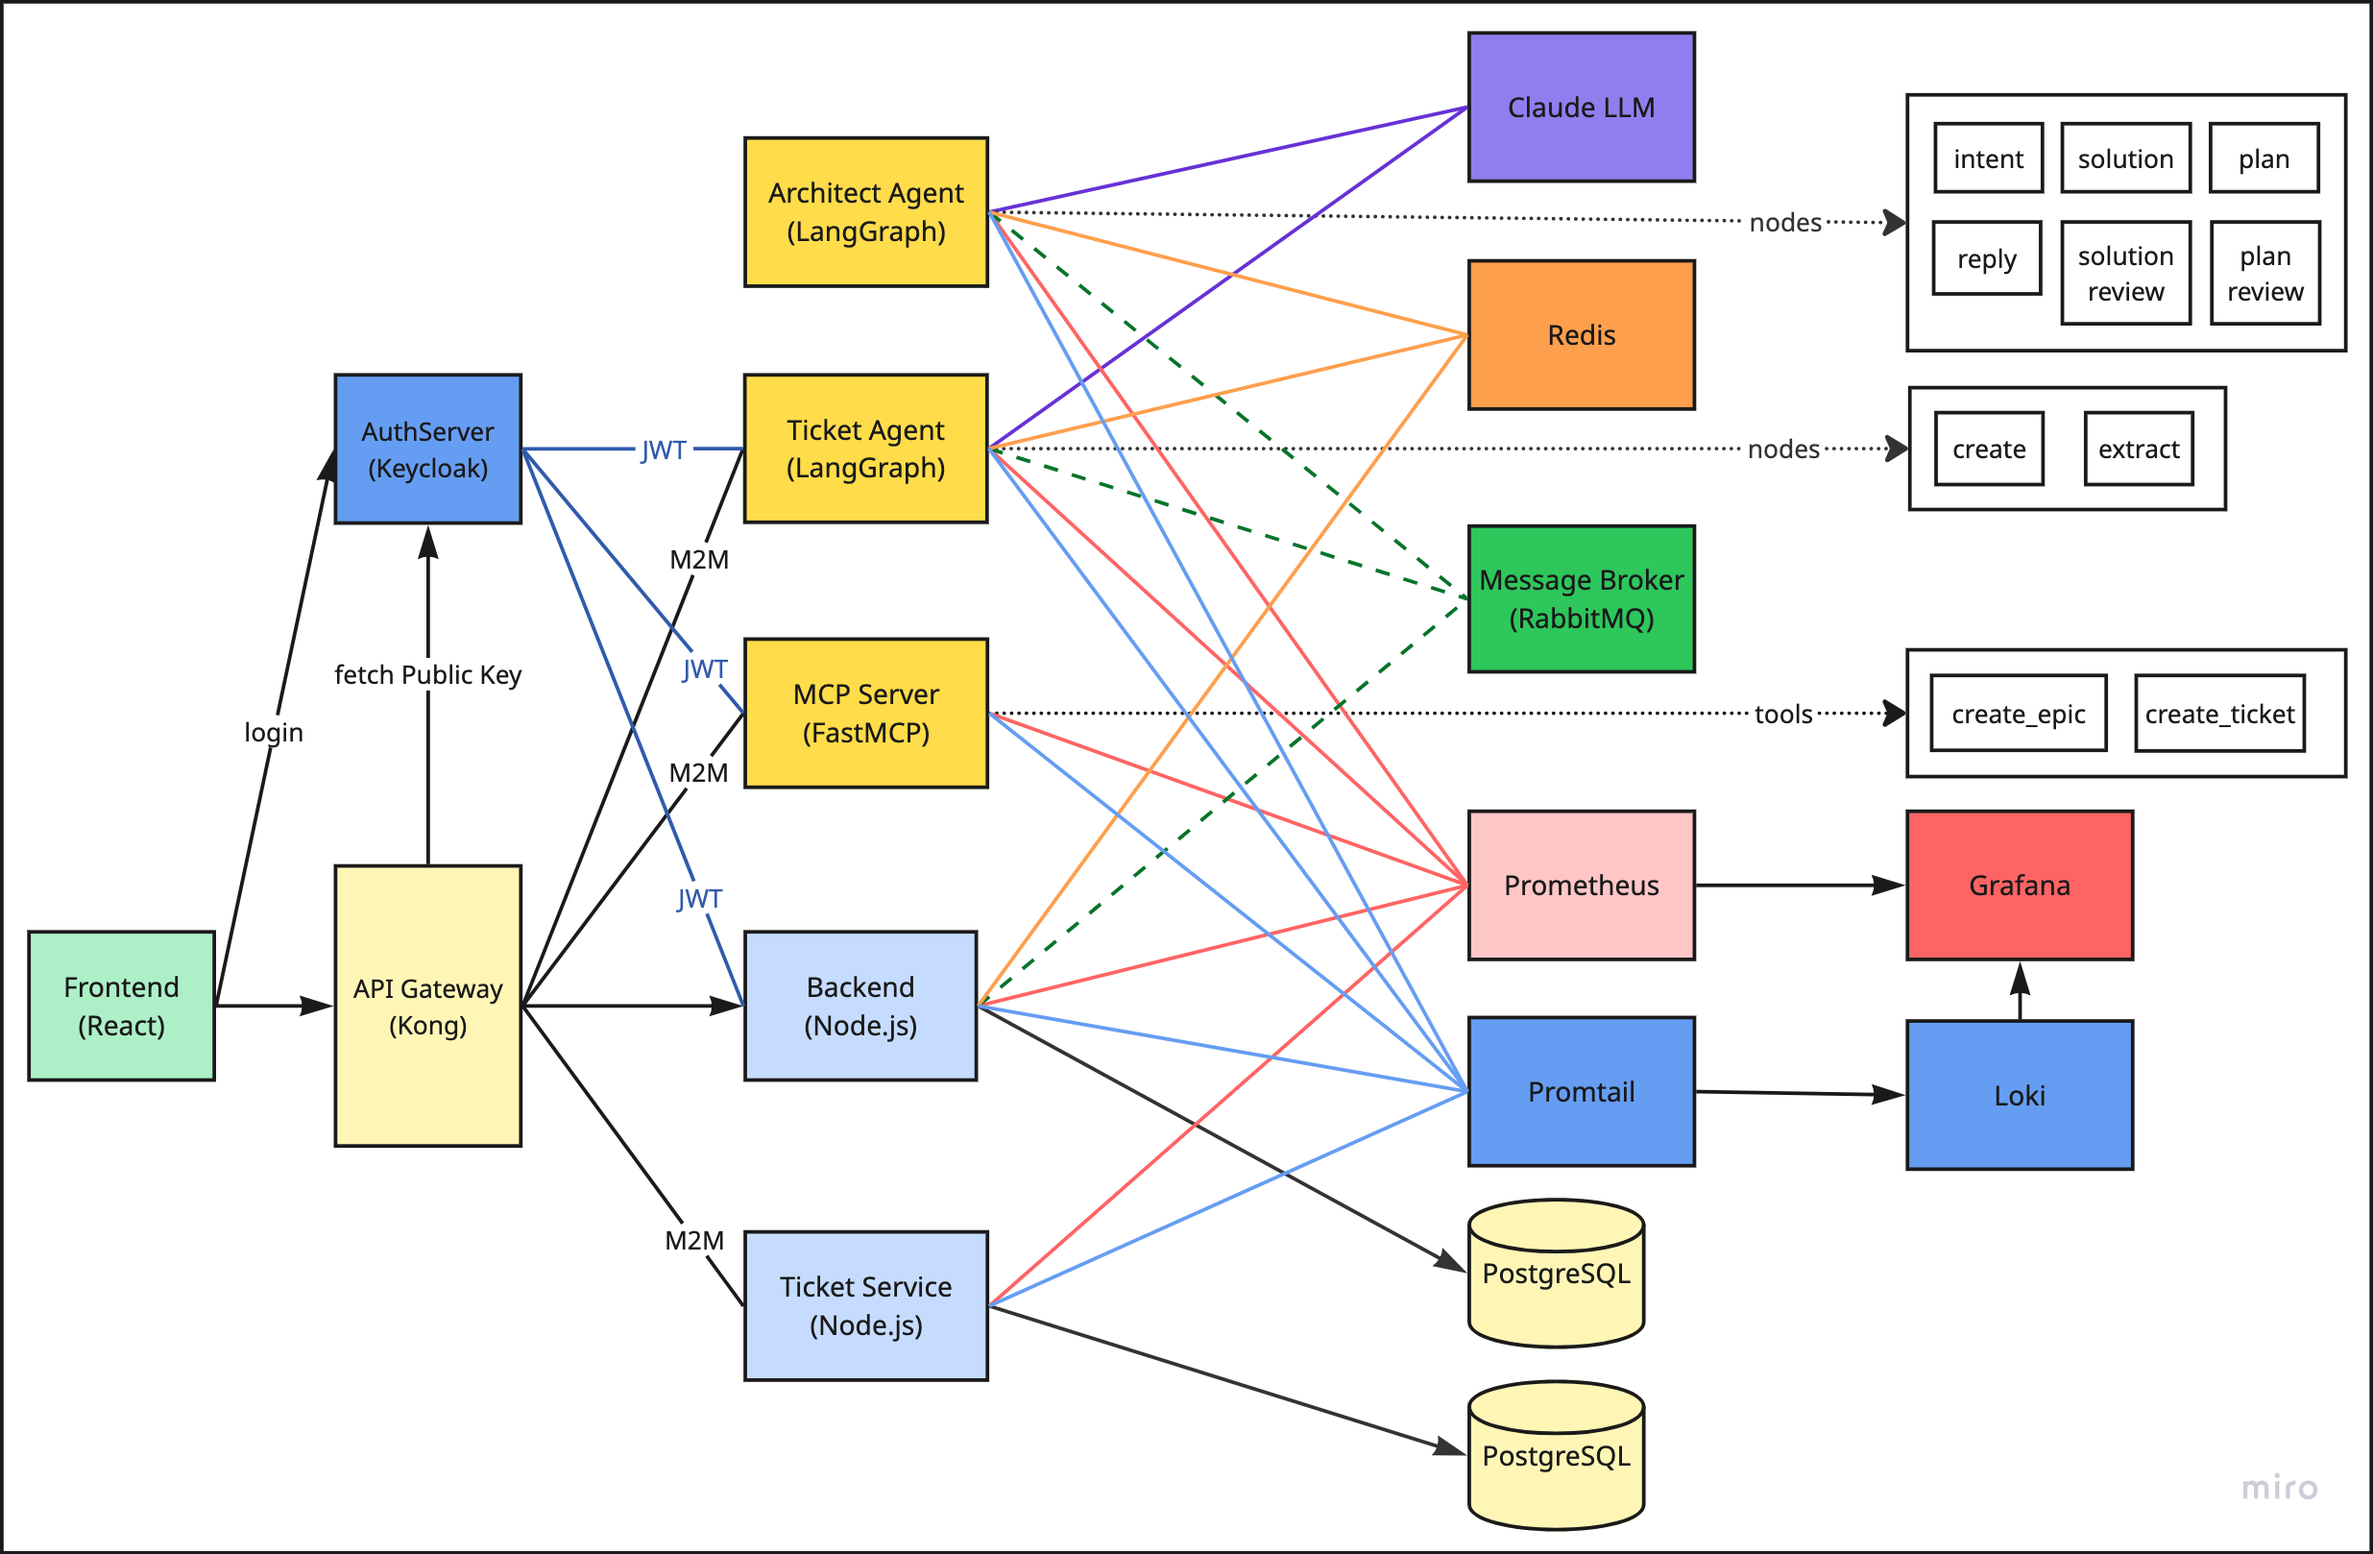
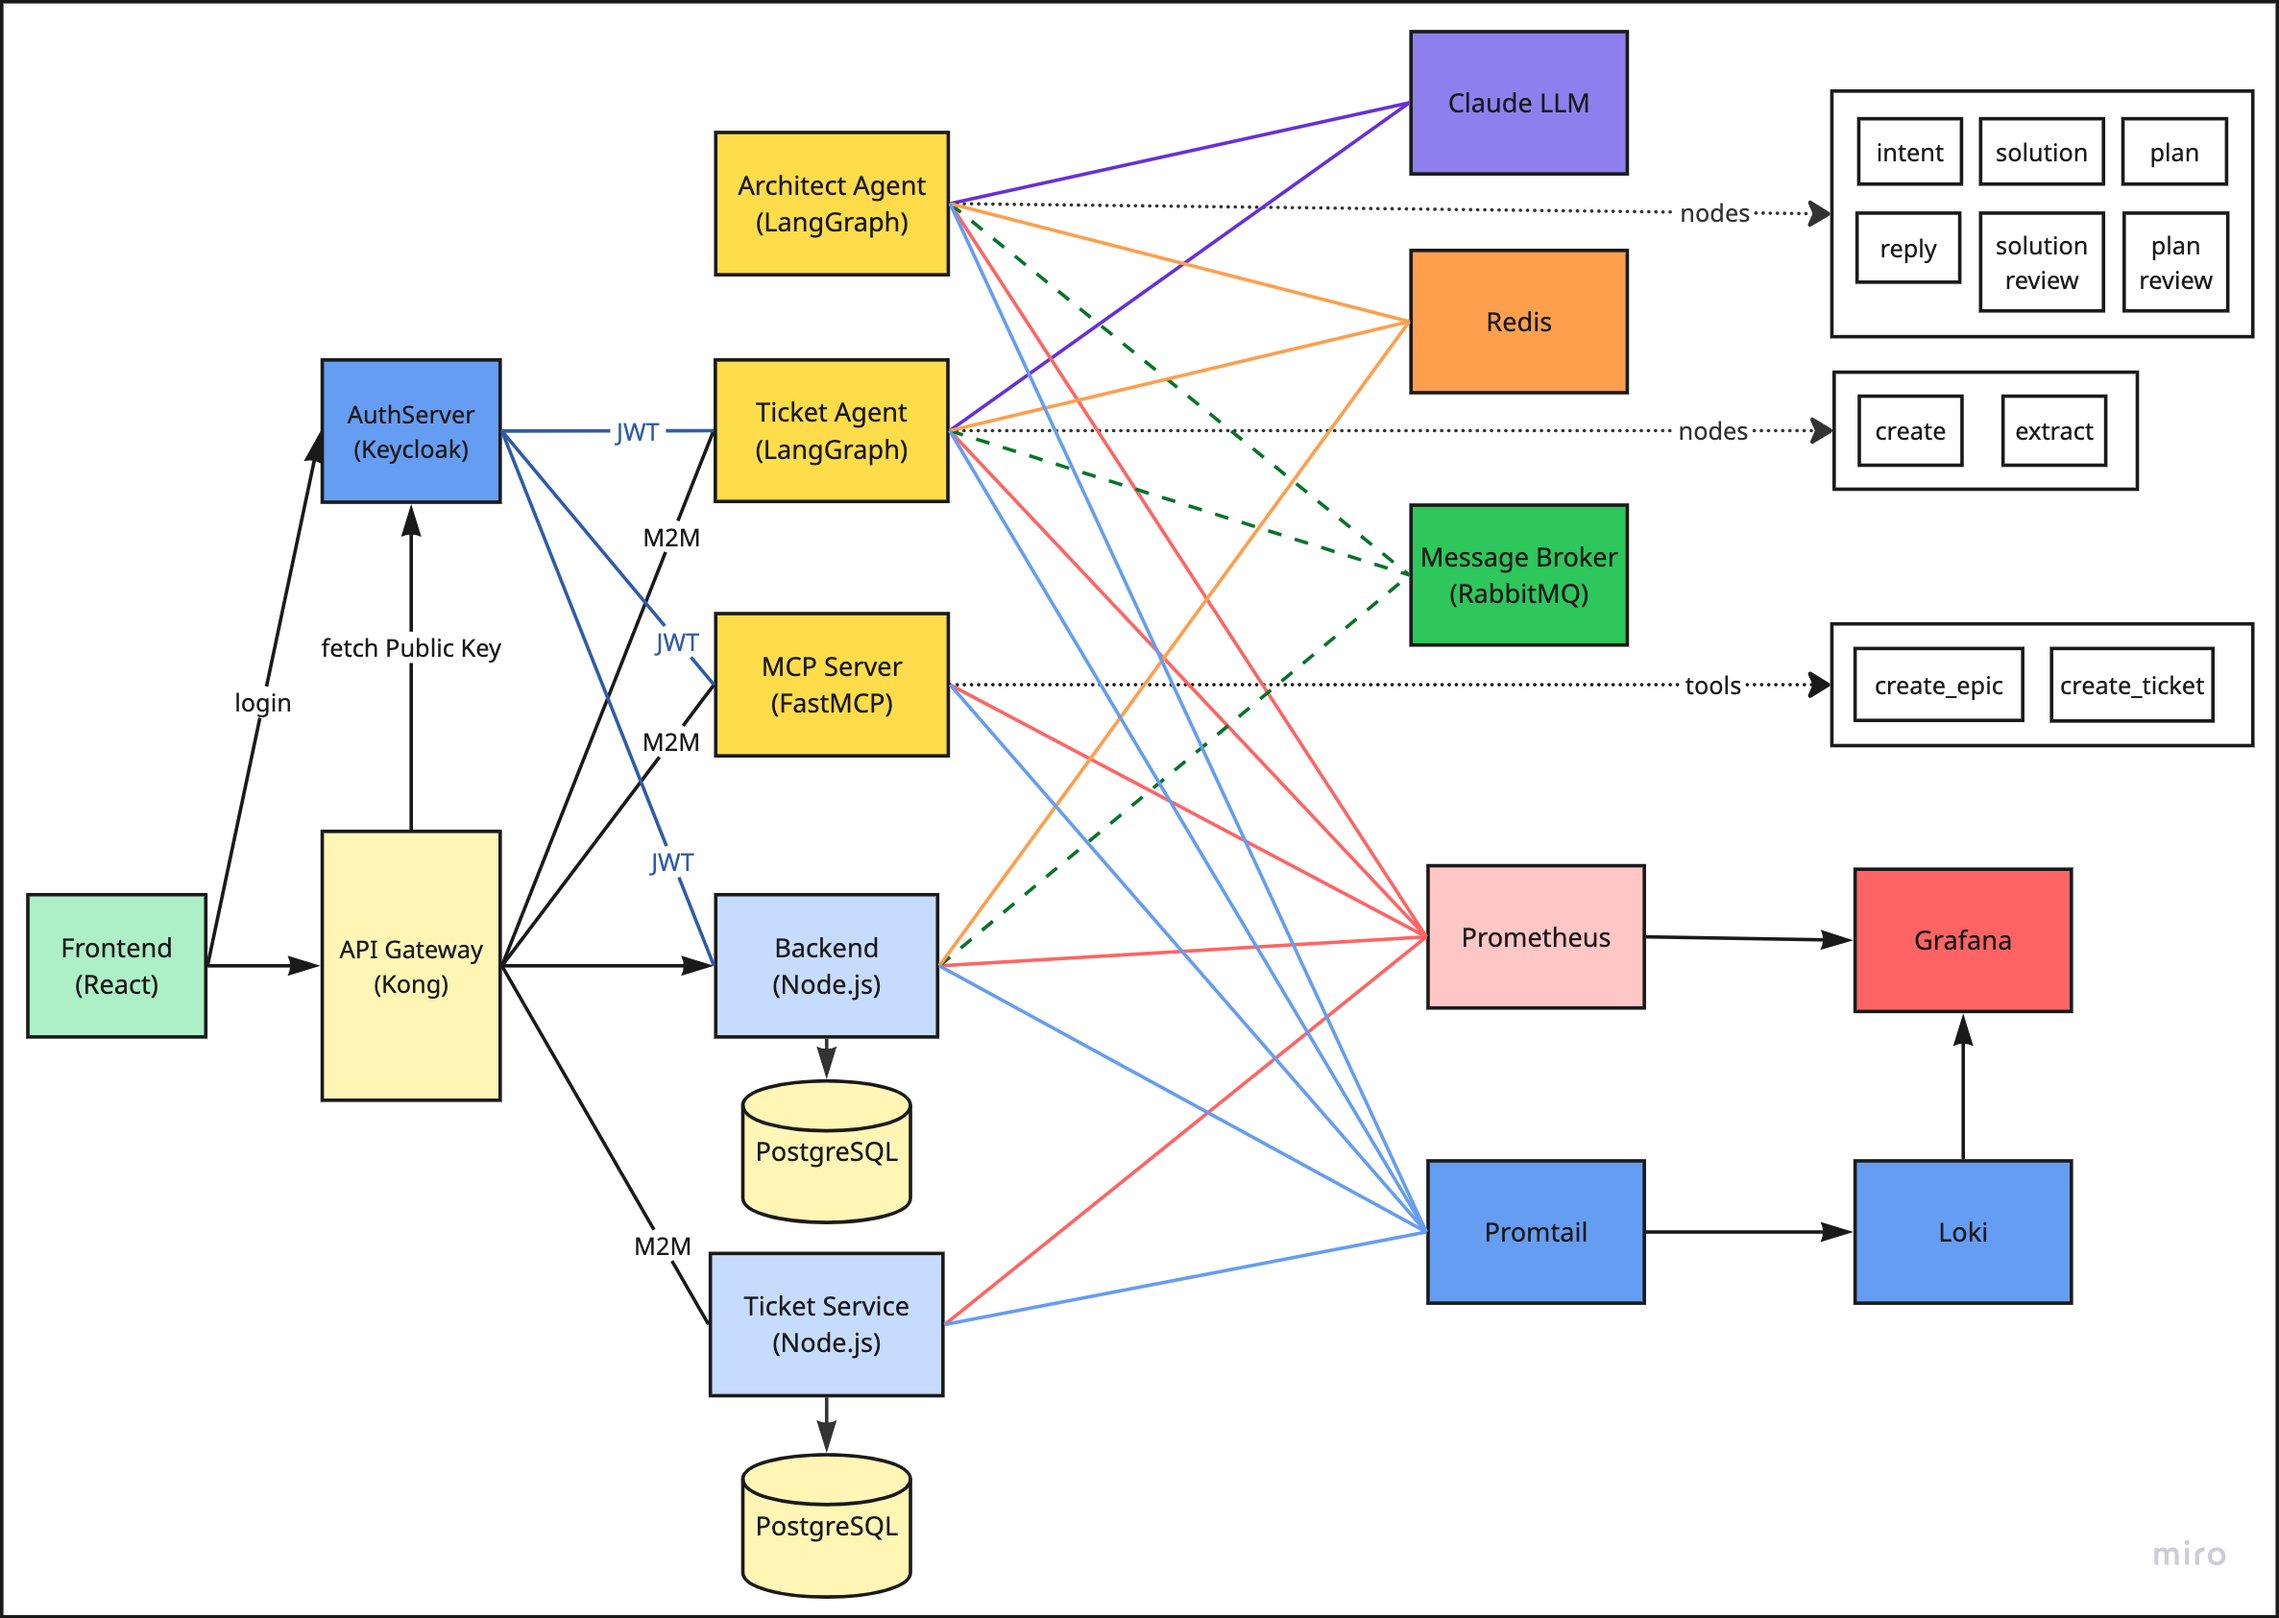
update frontend

diff --git a/frontend/src/app/ticket/[id]/page.tsx b/frontend/src/app/ticket/[id]/page.tsx
@@ -3,7 +3,7 @@
 import { useEffect, useState } from "react";
 import { useParams } from "next/navigation";
 import Link from "next/link";
-import { ArrowLeft, CheckCircle, Loader2 } from "lucide-react";
+import { ArrowLeft, CheckCircle, ClipboardList, Loader2 } from "lucide-react";
 import { TicketInterface } from "@/types/chat";
 import { getTicket } from "@/lib/api";
 
@@ -45,7 +45,7 @@ export default function TicketPage() {
 
   return (
     <div className="h-full overflow-y-auto">
-      <div className="mx-auto max-w-2xl space-y-6 p-8">
+      <div className="w-full space-y-6 p-8">
         <div className="flex items-center gap-3">
           <Link href={`/epic/${ticket.epicId}`} className="inline-flex items-center gap-1.5 text-sm text-zinc-500 hover:text-zinc-800 dark:hover:text-zinc-200">
             <ArrowLeft size={14} />
@@ -61,12 +61,15 @@ export default function TicketPage() {
 
         {/* Requirements */}
         {ticket.requirements.length > 0 && (
-          <div className="rounded-xl border border-zinc-200 bg-white p-5 dark:border-zinc-800 dark:bg-zinc-900">
-            <p className="mb-3 text-sm font-semibold uppercase tracking-wide text-zinc-500">Requirements</p>
+          <div className="rounded-xl border border-emerald-200 bg-gradient-to-br from-emerald-50 to-teal-50 p-5 dark:border-emerald-900 dark:from-emerald-950/40 dark:to-teal-950/40">
+            <div className="mb-3 flex items-center gap-2 text-emerald-600 dark:text-emerald-400">
+              <ClipboardList size={18} />
+              <span className="text-base font-bold uppercase tracking-wide">Requirements</span>
+            </div>
             <ul className="space-y-2">
               {ticket.requirements.map((r, i) => (
-                <li key={i} className="flex items-start gap-2 text-sm text-zinc-700 dark:text-zinc-300">
-                  <span className="mt-0.5 shrink-0 text-zinc-400">•</span>
+                <li key={i} className="flex items-start gap-2.5 text-sm font-medium text-zinc-800 dark:text-zinc-200">
+                  <CheckCircle size={14} className="mt-0.5 shrink-0 text-emerald-500" />
                   {r.requirement}
                 </li>
               ))}
@@ -76,12 +79,12 @@ export default function TicketPage() {
 
         {/* Acceptance Criteria */}
         {ticket.acceptance_criteria.length > 0 && (
-          <div className="rounded-xl border border-green-200 bg-green-50 p-5 dark:border-green-800 dark:bg-green-950/40">
-            <p className="mb-3 text-sm font-semibold uppercase tracking-wide text-green-700 dark:text-green-400">Acceptance Criteria</p>
+          <div className="rounded-xl border border-blue-200 bg-blue-50 p-5 dark:border-blue-800 dark:bg-blue-950/40">
+            <p className="mb-3 text-sm font-semibold uppercase tracking-wide text-blue-700 dark:text-blue-400">Acceptance Criteria</p>
             <ul className="space-y-2">
               {ticket.acceptance_criteria.map((a, i) => (
                 <li key={i} className="flex items-start gap-2 text-sm text-zinc-700 dark:text-zinc-300">
-                  <CheckCircle size={14} className="mt-0.5 shrink-0 text-green-500" />
+                  <CheckCircle size={14} className="mt-0.5 shrink-0 text-blue-500" />
                   {a.criterion}
                 </li>
               ))}

diff --git a/frontend/src/app/epic/[id]/page.tsx b/frontend/src/app/epic/[id]/page.tsx
@@ -3,7 +3,7 @@
 import { useEffect, useState } from "react";
 import { useParams } from "next/navigation";
 import Link from "next/link";
-import { ArrowLeft, CheckCircle, Layers, Loader2, Ticket } from "lucide-react";
+import { ArrowLeft, CheckCircle, ClipboardList, Layers, Loader2, Ticket } from "lucide-react";
 import { EpicInterface, TicketInterface } from "@/types/chat";
 import { getEpic, getEpicTickets } from "@/lib/api";
 
@@ -48,7 +48,7 @@ export default function EpicPage() {
 
   return (
     <div className="h-full overflow-y-auto">
-      <div className="mx-auto max-w-3xl space-y-6 p-8">
+      <div className="w-full space-y-6 p-8">
         <Link href="/" className="inline-flex items-center gap-1.5 text-sm text-zinc-500 hover:text-zinc-800 dark:hover:text-zinc-200">
           <ArrowLeft size={14} />
           Back to chat
@@ -61,12 +61,15 @@ export default function EpicPage() {
 
         {/* Requirements */}
         {epic.requirements?.length > 0 && (
-          <div className="rounded-xl border border-zinc-200 bg-white p-5 dark:border-zinc-800 dark:bg-zinc-900">
-            <p className="mb-3 text-sm font-semibold uppercase tracking-wide text-zinc-500">Requirements</p>
-            <ul className="space-y-1.5">
+          <div className="rounded-xl border border-emerald-200 bg-gradient-to-br from-emerald-50 to-teal-50 p-5 dark:border-emerald-900 dark:from-emerald-950/40 dark:to-teal-950/40">
+            <div className="mb-3 flex items-center gap-2 text-emerald-600 dark:text-emerald-400">
+              <ClipboardList size={18} />
+              <span className="text-base font-bold uppercase tracking-wide">Requirements</span>
+            </div>
+            <ul className="space-y-2">
               {epic.requirements.map((r, i) => (
-                <li key={i} className="flex items-start gap-2 text-sm text-zinc-700 dark:text-zinc-300">
-                  <span className="mt-0.5 shrink-0 text-zinc-400">•</span>
+                <li key={i} className="flex items-start gap-2.5 text-sm font-medium text-zinc-800 dark:text-zinc-200">
+                  <CheckCircle size={14} className="mt-0.5 shrink-0 text-emerald-500" />
                   {r.requirement}
                 </li>
               ))}

diff --git a/frontend/src/app/layout.tsx b/frontend/src/app/layout.tsx
@@ -1,18 +1,7 @@
 import type { Metadata } from "next";
-import { Geist, Geist_Mono } from "next/font/google";
 import Sidebar from "@/components/Sidebar";
 import { KeycloakProvider } from "@/components/KeycloakProvider";
 import "./globals.css";
-
-const geistSans = Geist({
-  variable: "--font-geist-sans",
-  subsets: ["latin"],
-});
-
-const geistMono = Geist_Mono({
-  variable: "--font-geist-mono",
-  subsets: ["latin"],
-});
 
 export const metadata: Metadata = {
   title: "Multi-Agent Architect",
@@ -23,7 +12,7 @@ export default function RootLayout({
   children,
 }: Readonly<{ children: React.ReactNode }>) {
   return (
-    <html lang="en" className={`${geistSans.variable} ${geistMono.variable} h-full antialiased`}>
+    <html lang="en" className="h-full antialiased">
       <body className="flex h-full" suppressHydrationWarning>
         <KeycloakProvider>
           <Sidebar />

diff --git a/frontend/src/app/globals.css b/frontend/src/app/globals.css
@@ -8,8 +8,10 @@
 @theme inline {
   --color-background: var(--background);
   --color-foreground: var(--foreground);
-  --font-sans: var(--font-geist-sans);
-  --font-mono: var(--font-geist-mono);
+  --font-sans: ui-sans-serif, system-ui, -apple-system, "Segoe UI", Roboto,
+    "Helvetica Neue", Arial, sans-serif;
+  --font-mono: ui-monospace, "SF Mono", Menlo, Consolas, "Liberation Mono",
+    monospace;
 }
 
 @media (prefers-color-scheme: dark) {
@@ -22,5 +24,5 @@
 body {
   background: var(--background);
   color: var(--foreground);
-  font-family: var(--font-geist-sans), Arial, Helvetica, sans-serif;
+  font-family: var(--font-sans);
 }

diff --git a/frontend/src/app/page.tsx b/frontend/src/app/page.tsx
@@ -1,7 +1,7 @@
 import { Suspense } from "react";
 import ArchitectChat from "@/components/ArchitectChat";
 
-export default function Home() {
+export default function ChatPage() {
   return (
     <Suspense>
       <ArchitectChat />

diff --git a/frontend/FRONTEND.md b/frontend/FRONTEND.md
@@ -1,0 +1,56 @@
+# Frontend
+
+## Stack
+
+Next.js 16 (App Router) + React 19 + TypeScript, styled with Tailwind CSS v4 (config lives in `globals.css` now, not `tailwind.config.js`). Auth via `keycloak-js`. No server framework beyond Next itself — API calls go through Next's dev-server rewrite proxy to the backend (via Kong).
+
+## Routing (file-based, App Router)
+
+```
+src/app/
+  layout.tsx          → root layout, wraps every page
+  page.tsx             → "/"                — the chat UI
+  epic/[id]/page.tsx    → "/epic/:id"        — epic detail view
+  ticket/[id]/page.tsx  → "/ticket/:id"      — ticket detail view
+```
+
+Each folder under `app/` is a route segment; a `page.tsx` inside makes it navigable. `[id]` is a dynamic segment, read client-side via `useParams()`. All three pages are `"use client"` components that fetch their own data in a `useEffect` (no server components/data-fetching used here — it's really a client-rendered SPA riding on Next's router).
+
+## Layout & shell (`frontend/src/app/layout.tsx`)
+
+Wraps every page in `<KeycloakProvider>` (auth gate) and a persistent `<Sidebar>`, with the routed page content to the right. This is why every route requires login and shares the same chat-history sidebar.
+
+## Auth (`frontend/src/components/KeycloakProvider.tsx`)
+
+A context provider that:
+- Boots a `Keycloak` client on mount with `onLoad: "login-required"` — redirects to Keycloak's login page if not authenticated, blocking render until `ready`.
+- On success, stores user info in React context and writes the JWT into a `kc_token` cookie (so the Next.js server/rewrite proxy or backend can read it, since it's not just an in-memory SPA token).
+- Registers `onTokenExpired` to silently refresh the token and re-write the cookie; if refresh fails, forces re-login.
+
+`useKeycloak()` is consumed by `Sidebar` (for user info, history, logout).
+
+## Data layer
+
+- `frontend/src/lib/api.ts` — thin `fetch` wrapper (`request<T>`) hitting `/api/...` paths, always `cache: "no-store"`. These `/api/*` calls are rewritten by `frontend/next.config.ts` to `${API_TARGET}/api/*` (→ Kong → backend) so the browser never needs the backend's real origin.
+- `frontend/src/types/chat.ts` — the shared type vocabulary: `EpicInterface`, `TicketInterface`, `MessageInterface`, etc., mirroring the backend's response shapes.
+
+## The chat flow (`frontend/src/components/ArchitectChat.tsx`)
+
+This is the meatiest piece. Flow: user types in `SearchBar` → `newChat()` POSTs to the backend and gets a chat `id` → it opens a **WebSocket** (`buildWsUrl()`, via `NEXT_PUBLIC_WS_URL`) and subscribes to that chat id → the backend streams `chat-update` events as the agent "thinks" (`agentStatus: isThinking`) and eventually replies (`hasReplied`).
+
+Key pieces:
+- `splitTurns` — reconstructs a flat message list into discrete user/agent conversation turns (used both live and when reloading history via `getChat`).
+- The render distinguishes three possible agent reply shapes: a plain string reply, a `ReplyInterface` (draft epic+tickets plan → rendered by `PlanCard`), or a `FinalReplyInterface` (accepted plan, now persisted → rendered by `FinalReplyCard`, which re-fetches the real epic/tickets by id).
+- An idle timer (`IDLE_TIMEOUT_MS`) auto-stops the chat/WebSocket if the user goes inactive after the agent has replied, to avoid orphaned connections.
+- `handleAccept` just sends a canned "Looks good, please create the epic and tickets" follow-up message — accepting a plan is itself a chat turn, not a separate endpoint.
+
+## Supporting components
+
+- `SearchBar` — controlled input + submit button, disabled while `loading`.
+- `PlanCard` — renders a draft `epic`/`tickets` plan (architecture, components, tickets), optionally with "accept" actions or links to detail pages.
+- `FinalReplyCard` — given just `{epicId, ticketIds}`, fetches the real records and reuses `PlanCard` to display them.
+- `LoadingSkeleton` — placeholder shimmer while waiting.
+
+## Styling
+
+Tailwind v4's newer CSS-based config: `frontend/src/app/globals.css` defines CSS variables (`--background`, `--font-sans`, etc.) inside `@theme inline`, dark mode via `prefers-color-scheme`, and utility classes are used directly in JSX (no separate CSS files per component). Fonts use native OS font stacks (`ui-sans-serif`/`ui-monospace`) rather than `next/font/google`, so the frontend has no external network dependency at compile time.
